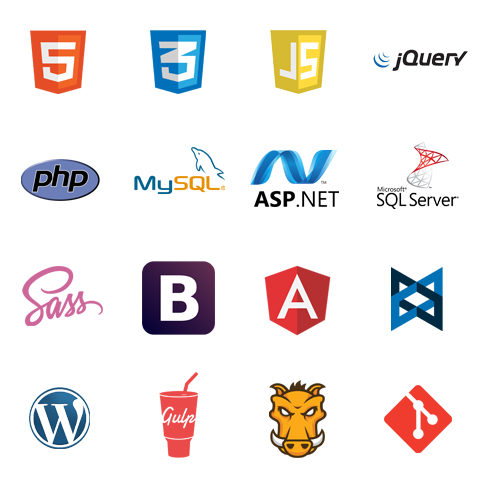
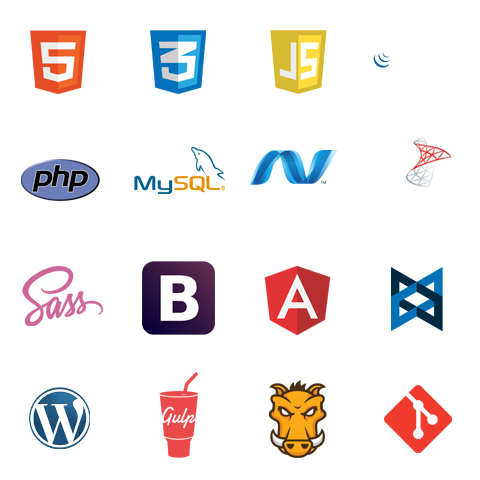
skill updates

Changed region(s): [[0.7812, 0.2812, 0.9688, 0.4375], [0.5312, 0.375, 0.7188, 0.4375], [0.8125, 0.0938, 0.9688, 0.1562]]

diff --git a/assets/styles/styles.css b/assets/styles/styles.css
@@ -1,3 +1,3 @@
-html,body{height:100%}body{margin:100vh 0 0 0;padding:0px;-webkit-font-smoothing:antialiased;-moz-osx-font-smoothing:grayscale;overflow-x:hidden}.page_container,.content_container{position:relative}h1{font-family:"Open Sans",sans-serif;font-size:36px;color:#FFF;margin:80px 0 10px;text-align:center}p{font-family:"Open Sans",sans-serif;font-size:16px;color:#999;margin:10px 0px;line-height:30px}hr{width:80px;display:block;border:none;height:4px;margin:10px auto 20px;background:#999}.nav{position:fixed;top:0px;left:-320px;width:320px;height:100%;background:#333;z-index:2}.nav__toggle{position:absolute;left:100%;top:0px;width:60px;height:60px;background:rgba(0,0,51,0.8)}.nav ul{margin:0px;padding:0px;list-style:none}.nav ul li{display:block;border-bottom:1px solid #999;font-family:"Open Sans",sans-serif}.nav ul li a{color:#FFF;text-decoration:none;display:block;font-size:18px;font-weight:bold;padding:18px 10px 18px 60px;letter-spacing:1px}.nav ul li a:hover{color:#999}.hamburger{margin-top:3px !important}.hamburger-inner,.hamburger-inner:after,.hamburger-inner:before{background-color:#FFF !important;width:30px !important;-webkit-border-radius:0px !important;-moz-border-radius:0px !important;border-radius:0px !important}.social{position:fixed;right:0px;top:0px;width:360px;height:60px;z-index:1}.social__link{position:relative;height:60px;width:60px;float:right;border-left:1px solid #333;background:rgba(0,0,51,0.8);color:#FFF;font-size:28px;cursor:pointer}.social__link:hover{color:#999}.social__link i{margin:50% auto;-ms-transform:translateY(-50%);-webkit-transform:translateY(-50%);transform:translateY(-50%);display:block;text-align:center}.social__slideout{position:relative;height:60px;width:220px;float:right;overflow:hidden}.social__slideout .slide{position:absolute;width:100%;height:100%;right:-100%;top:0px;background:rgba(0,0,51,0.8)}.social__slideout .slide span{display:block;font-family:"Open Sans",sans-serif;color:#999;font-size:14px;margin:6px 20px}.social__slideout .slide span strong{font-size:18px;color:#FFF;display:block}section{position:relative;display:block;float:left;width:100%;height:auto;min-height:100vh}section .overlay{position:absolute;left:0px;top:0px;width:100%;height:100%}section .overlay.blue{background:rgba(0,0,51,0.9)}section .overlay.gray{background:rgba(51,51,51,0.9)}.intro{position:fixed;left:0px;top:0px;width:100%;height:100%;background:url("/assets/img/bg-temp.jpg") no-repeat;background-size:cover}.intro__content{position:absolute;width:100%;top:50%;-ms-transform:translateY(-50%);-webkit-transform:translateY(-50%);transform:translateY(-50%);text-align:center;font-family:"Open Sans",sans-serif}.intro__content h1{margin:20px 0px 0px 0px;padding:0px;font-family:"Open Sans",sans-serif;font-size:74px;color:#999}.intro__content h1 strong{color:#FFF}.intro__content p{color:#999;font-weight:bold;margin:10px 0;padding:0px}.intro__content p.large{font-size:60px;line-height:20px}.intro__content p.small{font-size:24px}.intro__content__img{display:inline-block;width:120px;height:120px;margin:20px auto;-webkit-border-radius:50%;-moz-border-radius:50%;border-radius:50%;border:6px solid #FFF;background:url("/assets/img/me-bg-temp.png") no-repeat;background-size:cover}.intro .btn_down{position:absolute;left:50%;bottom:0px;margin-left:-30px;width:60px;height:60px;background:url("/assets/img/btn_down.png") no-repeat;background-size:cover;cursor:pointer}.about{background:#FFF}.about h1{color:#999;text-align:left;margin:10px 0}.about h1 strong{color:#006}.about .col-40{position:absolute;width:40%;height:100%;left:0px;top:0px;background:url("/assets/img/me-about-temp.png") no-repeat;background-size:cover}.about .col-60{position:relative;display:block;float:left;width:60%;height:100%;margin-left:40%}.about__content{margin:130px 116px}.about__content hr{margin:10px 0px 20px}.skills{padding-bottom:60px;background:url("/assets/img/bg-temp.jpg") no-repeat;background-size:cover}.skills .skills_list{position:relative;margin:40px auto;width:90%;max-width:640px;text-align:center}.skills .skills_list .skill{display:inline-block;width:18%;padding-top:18%;margin:2%;-webkit-border-radius:50%;-moz-border-radius:50%;border-radius:50%;border:6px solid #999;background:#fff url("/assets/img/skills.png") no-repeat;background-size:400%}.skills .skills_list .skill.html5{background-position:0px 0px}.skills .skills_list .skill.css3{background-position:33% 0px}.skills .skills_list .skill.js{background-position:66% 0px}.skills .skills_list .skill.jquery{background-position:99% 0px}.skills .skills_list .skill.php{background-position:0px 33%}.skills .skills_list .skill.mysql{background-position:33% 33%}.skills .skills_list .skill.aspnet{background-position:66% 33%}.skills .skills_list .skill.sql{background-position:99% 33%}.skills .skills_list .skill.sass{background-position:0px 66%}.skills .skills_list .skill.bootstrap{background-position:33% 66%}.skills .skills_list .skill.angular{background-position:66% 66%}.skills .skills_list .skill.backbone{background-position:99% 66%}.skills .skills_list .skill.wordpress{background-position:0px 99%}.skills .skills_list .skill.gulp{background-position:33% 99%}.skills .skills_list .skill.grunt{background-position:66% 99%}.skills .skills_list .skill.git{background-position:99% 99%}section.experience{background:url("/assets/img/bg-temp.jpg") no-repeat;background-size:cover;padding-bottom:60px}section.experience .timeline{position:relative;width:90%;max-width:700px;margin:60px auto;padding-bottom:60px}section.experience .timeline__vline{position:absolute;left:50%;width:1px;height:100%;background:#FFF}section.experience .timeline__circle{position:absolute;bottom:0px;left:50%;width:10px;height:10px;margin-left:-5px;background:#FFF}section.experience .timeline .job{position:relative;font-family:"Open Sans",sans-serif;color:#999;width:44%;font-weight:bold;padding-bottom:40px}section.experience .timeline .job .small_line{position:absolute;top:0px;height:1px;width:20px;background:#FFF}section.experience .timeline .job span{display:block}section.experience .timeline .job.left{text-align:right;padding-right:6%}section.experience .timeline .job.left .small_line{right:0px}section.experience .timeline .job.right{text-align:left;padding-left:6%;margin-left:50%}section.experience .timeline .job.right .small_line{left:0px}section.experience .timeline .job__title{font-size:24px;color:#FFF}.education{background:url("/assets/img/bg-temp.jpg") no-repeat;background-size:cover}.education p{font-family:"Open Sans",sans-serif;font-size:24px;color:#FFF;text-align:center;margin:0px;padding:0px;font-weight:bold}.education p:first-of-type{margin-top:40px}.education p.small-text{font-size:18px;color:#999}.education .shu{position:relative;display:block;width:180px;height:144px;margin:20px auto;background:url("/assets/img/shu.png") no-repeat;background-size:cover}.contact{background:#FFF}.contact h1{color:#999}.contact h1 strong{color:#006}.contact hr{background:#006}.contact .contact_form{position:relative;width:90%;max-width:640px;margin:auto}.contact .contact_form form{margin-top:40px}.contact .contact_form form .row{margin:0px 0px 20px}.contact .contact_form form .row:after{clear:both;content:"";display:block}.contact .contact_form form label{display:block;font-family:"Open Sans",sans-serif;color:#006;font-size:16px;font-weight:bold;margin-bottom:6px}.contact .contact_form form input,.contact .contact_form form textarea{display:block;width:100%;padding:12px;border:1px solid #999;font-family:"Open Sans",sans-serif;color:#999;font-size:16px}.contact .contact_form form input[type='submit']{color:#FFF;background:#006;width:auto;margin:auto;padding:10px 100px;border:1px solid #006;font-size:18px;margin-top:40px;cursor:pointer}.contact .contact_form form input[type='submit']:hover{background:#FFF;color:#006}.contact .contact_form form textarea{height:80px}.contact .contact_form form .col-left{position:relative;float:left;width:46%}.contact .contact_form form .col-right{position:relative;float:right;width:46%}
+html,body{height:100%}body{margin:100vh 0 0 0;padding:0px;-webkit-font-smoothing:antialiased;-moz-osx-font-smoothing:grayscale;overflow-x:hidden}.page_container,.content_container{position:relative}h1{font-family:"Open Sans",sans-serif;font-size:36px;color:#FFF;margin:80px 0 10px;text-align:center}p{font-family:"Open Sans",sans-serif;font-size:16px;color:#999;margin:10px 0px;line-height:30px}hr{width:80px;display:block;border:none;height:4px;margin:10px auto 20px;background:#999}.nav{position:fixed;top:0px;left:-320px;width:320px;height:100%;background:#333;z-index:2}.nav__toggle{position:absolute;left:100%;top:0px;width:60px;height:60px;background:rgba(0,0,51,0.8)}.nav ul{margin:0px;padding:0px;list-style:none}.nav ul li{display:block;border-bottom:1px solid #999;font-family:"Open Sans",sans-serif}.nav ul li a{color:#FFF;text-decoration:none;display:block;font-size:18px;font-weight:bold;padding:18px 10px 18px 60px;letter-spacing:1px}.nav ul li a:hover{color:#999}.hamburger{margin-top:3px !important}.hamburger-inner,.hamburger-inner:after,.hamburger-inner:before{background-color:#FFF !important;width:30px !important;-webkit-border-radius:0px !important;-moz-border-radius:0px !important;border-radius:0px !important}.social{position:fixed;right:0px;top:0px;width:360px;height:60px;z-index:1}.social__link{position:relative;height:60px;width:60px;float:right;border-left:1px solid #333;background:rgba(0,0,51,0.8);color:#FFF;font-size:28px;cursor:pointer}.social__link:hover{color:#999}.social__link i{margin:50% auto;-ms-transform:translateY(-50%);-webkit-transform:translateY(-50%);transform:translateY(-50%);display:block;text-align:center}.social__slideout{position:relative;height:60px;width:220px;float:right;overflow:hidden}.social__slideout .slide{position:absolute;width:100%;height:100%;right:-100%;top:0px;background:rgba(0,0,51,0.8)}.social__slideout .slide span{display:block;font-family:"Open Sans",sans-serif;color:#999;font-size:14px;margin:6px 20px}.social__slideout .slide span strong{font-size:18px;color:#FFF;display:block}section{position:relative;display:block;float:left;width:100%;height:auto;min-height:100vh}section .overlay{position:absolute;left:0px;top:0px;width:100%;height:100%}section .overlay.blue{background:rgba(0,0,51,0.9)}section .overlay.gray{background:rgba(51,51,51,0.9)}.intro{position:fixed;left:0px;top:0px;width:100%;height:100%;background:url("/assets/img/bg-temp.jpg") no-repeat;background-size:cover}.intro__content{position:absolute;width:100%;top:50%;-ms-transform:translateY(-50%);-webkit-transform:translateY(-50%);transform:translateY(-50%);text-align:center;font-family:"Open Sans",sans-serif}.intro__content h1{margin:20px 0px 0px 0px;padding:0px;font-family:"Open Sans",sans-serif;font-size:74px;color:#999}.intro__content h1 strong{color:#FFF}.intro__content p{color:#999;font-weight:bold;margin:10px 0;padding:0px}.intro__content p.large{font-size:60px;line-height:20px}.intro__content p.small{font-size:24px}.intro__content__img{display:inline-block;width:120px;height:120px;margin:20px auto;-webkit-border-radius:50%;-moz-border-radius:50%;border-radius:50%;border:6px solid #FFF;background:url("/assets/img/me-bg-temp.png") no-repeat;background-size:cover}.intro .btn_down{position:absolute;left:50%;bottom:0px;margin-left:-30px;width:60px;height:60px;background:url("/assets/img/btn_down.png") no-repeat;background-size:cover;cursor:pointer}.about{background:#FFF}.about h1{color:#999;text-align:left;margin:10px 0}.about h1 strong{color:#006}.about .col-40{position:absolute;width:40%;height:100%;left:0px;top:0px;background:url("/assets/img/me-about-temp.png") no-repeat;background-size:cover}.about .col-60{position:relative;display:block;float:left;width:60%;height:100%;margin-left:40%}.about__content{margin:130px 116px}.about__content hr{margin:10px 0px 20px}.skills{padding-bottom:60px;background:url("/assets/img/bg-temp.jpg") no-repeat;background-size:cover}.skills .skills_list{position:relative;margin:40px auto;width:90%;max-width:640px;text-align:center}.skills .skills_list .skill{display:inline-block;width:18%;padding-top:18%;margin:2%;-webkit-border-radius:50%;-moz-border-radius:50%;border-radius:50%;border:6px solid #999;background:rgba(0,0,51,0.9) url("/assets/img/skills.png") no-repeat;background-size:400%}.skills .skills_list .skill.html5{background-position:0px 0px}.skills .skills_list .skill.css3{background-position:33% 0px}.skills .skills_list .skill.js{background-position:66% 0px}.skills .skills_list .skill.jquery{background-position:99% 0px}.skills .skills_list .skill.php{background-position:0px 33%}.skills .skills_list .skill.mysql{background-position:33% 33%}.skills .skills_list .skill.aspnet{background-position:66% 33%}.skills .skills_list .skill.sql{background-position:99% 33%}.skills .skills_list .skill.sass{background-position:0px 66%}.skills .skills_list .skill.bootstrap{background-position:33% 66%}.skills .skills_list .skill.angular{background-position:66% 66%}.skills .skills_list .skill.backbone{background-position:99% 66%}.skills .skills_list .skill.wordpress{background-position:0px 99%}.skills .skills_list .skill.gulp{background-position:33% 99%}.skills .skills_list .skill.grunt{background-position:66% 99%}.skills .skills_list .skill.git{background-position:99% 99%}section.experience{background:url("/assets/img/bg-temp.jpg") no-repeat;background-size:cover;padding-bottom:60px}section.experience .timeline{position:relative;width:90%;max-width:700px;margin:60px auto;padding-bottom:60px}section.experience .timeline__vline{position:absolute;left:50%;width:1px;height:100%;background:#FFF}section.experience .timeline__circle{position:absolute;bottom:0px;left:50%;width:10px;height:10px;margin-left:-5px;background:#FFF}section.experience .timeline .job{position:relative;font-family:"Open Sans",sans-serif;color:#999;width:44%;font-weight:bold;padding-bottom:40px}section.experience .timeline .job .small_line{position:absolute;top:0px;height:1px;width:20px;background:#FFF}section.experience .timeline .job span{display:block}section.experience .timeline .job.left{text-align:right;padding-right:6%}section.experience .timeline .job.left .small_line{right:0px}section.experience .timeline .job.right{text-align:left;padding-left:6%;margin-left:50%}section.experience .timeline .job.right .small_line{left:0px}section.experience .timeline .job__title{font-size:24px;color:#FFF}.education{background:url("/assets/img/bg-temp.jpg") no-repeat;background-size:cover}.education p{font-family:"Open Sans",sans-serif;font-size:24px;color:#FFF;text-align:center;margin:0px;padding:0px;font-weight:bold}.education p:first-of-type{margin-top:40px}.education p.small-text{font-size:18px;color:#999}.education .shu{position:relative;display:block;width:180px;height:144px;margin:20px auto;background:url("/assets/img/shu.png") no-repeat;background-size:cover}.contact{background:#FFF}.contact h1{color:#999}.contact h1 strong{color:#006}.contact hr{background:#006}.contact .contact_form{position:relative;width:90%;max-width:640px;margin:auto}.contact .contact_form form{margin-top:40px}.contact .contact_form form .row{margin:0px 0px 20px}.contact .contact_form form .row:after{clear:both;content:"";display:block}.contact .contact_form form label{display:block;font-family:"Open Sans",sans-serif;color:#006;font-size:16px;font-weight:bold;margin-bottom:6px}.contact .contact_form form input,.contact .contact_form form textarea{display:block;width:100%;padding:12px;border:1px solid #999;font-family:"Open Sans",sans-serif;color:#999;font-size:16px}.contact .contact_form form input[type='submit']{color:#FFF;background:#006;width:auto;margin:auto;padding:10px 100px;border:1px solid #006;font-size:18px;margin-top:40px;cursor:pointer}.contact .contact_form form input[type='submit']:hover{background:#FFF;color:#006}.contact .contact_form form textarea{height:80px}.contact .contact_form form .col-left{position:relative;float:left;width:46%}.contact .contact_form form .col-right{position:relative;float:right;width:46%}
 
 /*# sourceMappingURL=styles.css.map */

diff --git a/assets/js/main.min.js b/assets/js/main.min.js
@@ -1,2 +1,2 @@
-function scrollTo(a){var t=$(a).offset().top;$("html,body").animate({scrollTop:t},500)}function toggleSlideOut(){var a=$(window).height()/2,t=$(window).scrollTop(),n=$(".social .slide");t>=a&&!n.hasClass("open")?(n.addClass("open"),n.animate({right:"0px"},250)):t<a&&n.hasClass("open")&&(n.removeClass("open"),n.animate({right:"-100%"},250))}function toggleNav(){var a=$(".nav"),t=a.width();a.hasClass("open")?(a.removeClass("open"),a.animate({left:-t},250),$(".intro,.page_container").animate({left:"0px"},250)):(a.addClass("open"),a.animate({left:"0px"},250),$(".intro,.page_container").animate({left:t},250))}function setAnchors(){$("a[href^='#']").on("click",function(a){a.preventDefault();var t=$(this),n=t.attr("href"),o=$(n);if(o){var e=o.offset().top;"#intro"==n&&(e=0),$("html,body").animate({scrollTop:e},600),$(".nav").hasClass("open")&&toggleNav()}})}$(document).ready(function(){$(window).on("scroll",function(){toggleSlideOut()});var a=$(".hamburger");a.on("click",function(t){a.toggleClass("is-active"),toggleNav()})});var app=angular.module("jcApp",[]);app.controller("jcCtrl",["$scope","$http","$sce",function(a,t,n){t.get("/data/content.json").success(function(t){a.data=t.info,a.nav=a.data.nav,a.firstname=a.data.firstname,a.lastname=a.data.lastname,a.about=n.trustAsHtml(a.data.about),a.skills=a.data.skills,a.employment=a.data.employment,a.education=a.data.education}),a.scrollDown=function(){scrollTo("#about")},angular.element(document).ready(function(){setAnchors()})}]);
+function scrollTo(a){var t=$(a).offset().top;$("html,body").animate({scrollTop:t},500)}function toggleSlideOut(){var a=$(window).height()/2,t=$(window).scrollTop(),n=$(".social .slide");t>=a&&!n.hasClass("open")?(n.addClass("open"),n.animate({right:"0px"},250)):t<a&&n.hasClass("open")&&(n.removeClass("open"),n.animate({right:"-100%"},250))}function toggleNav(){var a=$(".nav"),t=a.width();a.hasClass("open")?(a.removeClass("open"),a.animate({left:-t},250),$(".intro,.page_container").animate({left:"0px"},250)):(a.addClass("open"),a.animate({left:"0px"},250),$(".intro,.page_container").animate({left:t},250))}function setAnchors(){$("a[href^='#']").on("click",function(a){a.preventDefault();var t=$(this),n=t.attr("href"),o=$(n);if(o){var e=o.offset().top;"#intro"==n&&(e=0),$("html,body").animate({scrollTop:e},600),$(".nav").hasClass("open")&&($(".hamburger").toggleClass("is-active"),toggleNav())}})}$(document).ready(function(){$(window).on("scroll",function(){toggleSlideOut()});var a=$(".hamburger");a.on("click",function(t){a.toggleClass("is-active"),toggleNav()})});var app=angular.module("jcApp",[]);app.controller("jcCtrl",["$scope","$http","$sce",function(a,t,n){t.get("/data/content.json").success(function(t){a.data=t.info,a.nav=a.data.nav,a.firstname=a.data.firstname,a.lastname=a.data.lastname,a.about=n.trustAsHtml(a.data.about),a.skills=a.data.skills,a.employment=a.data.employment,a.education=a.data.education}),a.scrollDown=function(){scrollTo("#about")},angular.element(document).ready(function(){setAnchors()})}]);
 //# sourceMappingURL=main.min.js.map

diff --git a/src/scss/_skills.scss b/src/scss/_skills.scss
@@ -19,7 +19,7 @@
 			-moz-border-radius: 50%;
 			border-radius: 50%;
 			border:6px solid $text-gray;
-			background:#FFF url('/assets/img/skills.png') no-repeat;
+			background:$skill-bg url('/assets/img/skills.png') no-repeat;
 			background-size:400%;
 
 			&.html5{

diff --git a/index.html b/index.html
@@ -117,6 +117,7 @@
 			<p class="small-text">{{ education[0].location }}</p>
 			<div class="shu"></div>
 			<p ng-repeat="d in education[0].degrees">{{ d }}</p>
+			<p>{{ education[0].year }}</p>
 
 		</div>
 	</section>

diff --git a/assets/js/main.js b/assets/js/main.js
@@ -94,6 +94,7 @@ function setAnchors(){
 			$("html,body").animate({"scrollTop":newtop},600);
 			
 			if($(".nav").hasClass("open")){
+				$(".hamburger").toggleClass("is-active");
 				toggleNav();
 			}
 		}

diff --git a/src/js/main.js b/src/js/main.js
@@ -94,6 +94,7 @@ function setAnchors(){
 			$("html,body").animate({"scrollTop":newtop},600);
 			
 			if($(".nav").hasClass("open")){
+				$(".hamburger").toggleClass("is-active");
 				toggleNav();
 			}
 		}

diff --git a/src/scss/_variables.scss b/src/scss/_variables.scss
@@ -2,6 +2,7 @@ $text-gray:#999;
 $dark-gray:#333;
 $dark-gray-2:#999;
 $text-blue:#000066;
+$skill-bg:rgba(0,0,51,.9);
 
 /* overlays */
 $nav-bg: #333;
